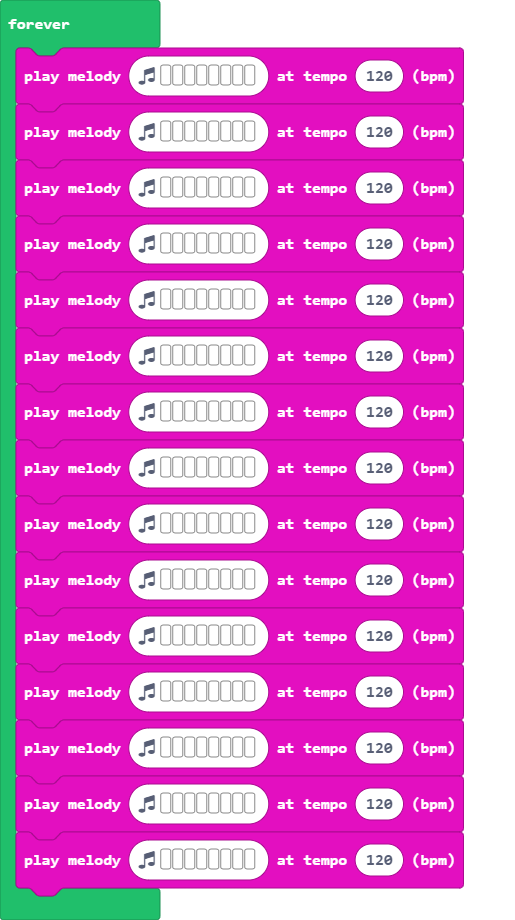
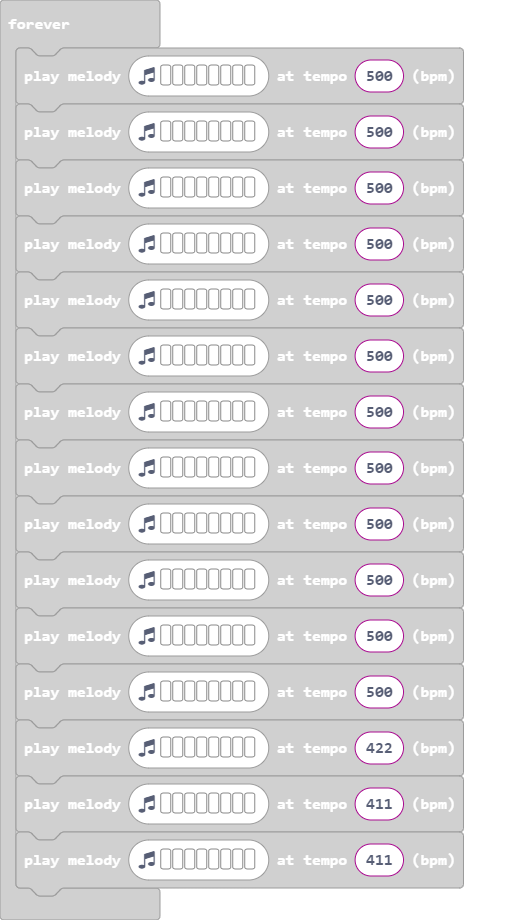
Música.

diff --git a/main.ts b/main.ts
@@ -2533,19 +2533,19 @@ game.onUpdate(function () {
     movePrima2()
 })
 forever(function () {
-    music.playMelody("- - - - - - - - ", 120)
-    music.playMelody("- - - - - - - - ", 120)
-    music.playMelody("- - - - - - - - ", 120)
-    music.playMelody("- - - - - - - - ", 120)
-    music.playMelody("- - - - - - - - ", 120)
-    music.playMelody("- - - - - - - - ", 120)
-    music.playMelody("- - - - - - - - ", 120)
-    music.playMelody("- - - - - - - - ", 120)
-    music.playMelody("- - - - - - - - ", 120)
-    music.playMelody("- - - - - - - - ", 120)
-    music.playMelody("- - - - - - - - ", 120)
-    music.playMelody("- - - - - - - - ", 120)
-    music.playMelody("- - - - - - - - ", 120)
-    music.playMelody("- - - - - - - - ", 120)
-    music.playMelody("- - - - - - - - ", 120)
+    music.playMelody("- - - - - - - - ", 500)
+    music.playMelody("- - - - - - - - ", 500)
+    music.playMelody("- - - - - - - - ", 500)
+    music.playMelody("- - - - - - - - ", 500)
+    music.playMelody("- - - - - - - - ", 500)
+    music.playMelody("- - - - - - - - ", 500)
+    music.playMelody("- - - - - - - - ", 500)
+    music.playMelody("- - - - - - - - ", 500)
+    music.playMelody("- - - - - - - - ", 500)
+    music.playMelody("- - - - - - - - ", 500)
+    music.playMelody("- - - - - - - - ", 500)
+    music.playMelody("- - - - - - - - ", 500)
+    music.playMelody("- - - - - - - - ", 422)
+    music.playMelody("- - - - - - - - ", 411)
+    music.playMelody("- - - - - - - - ", 411)
 })
